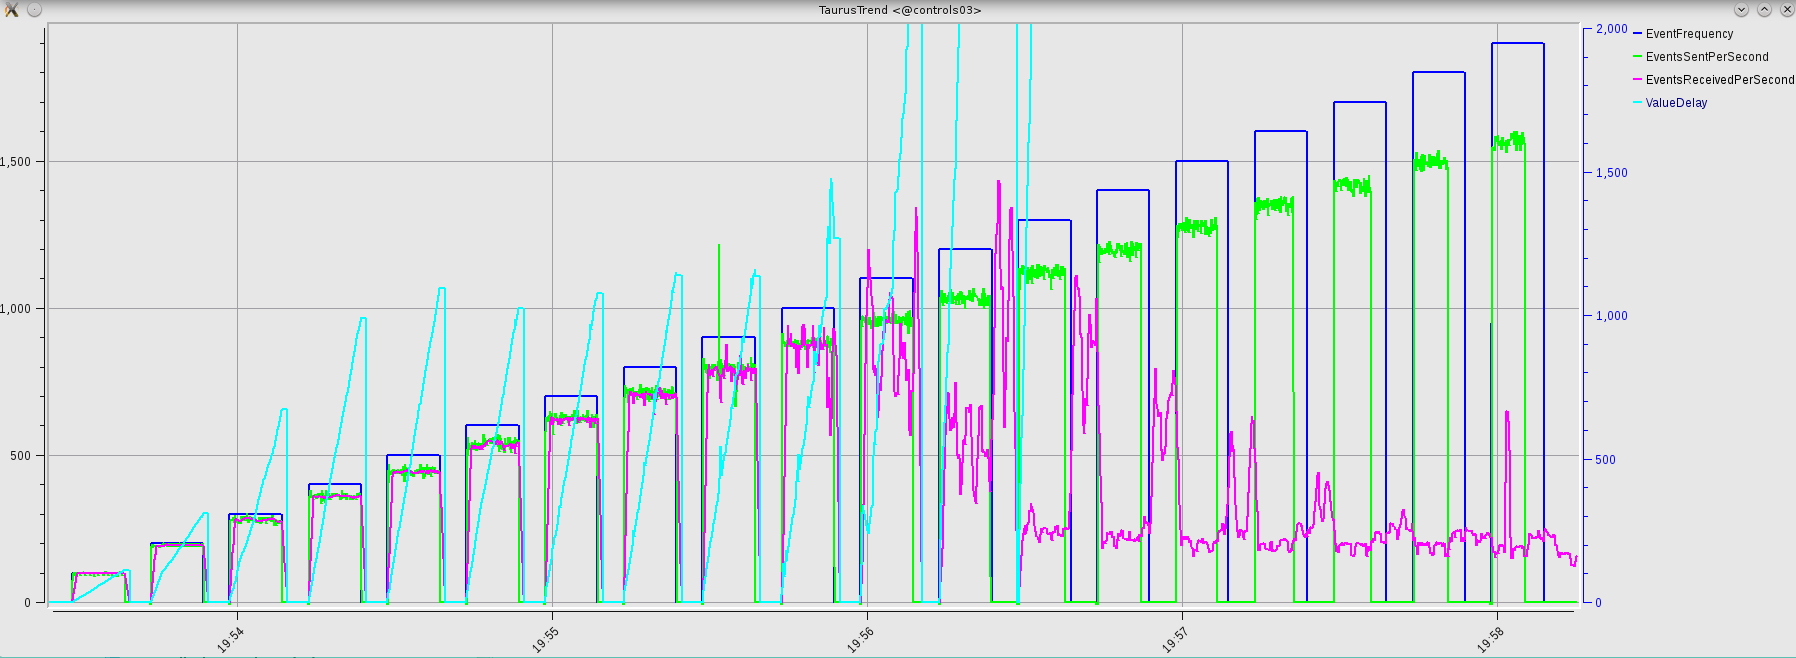
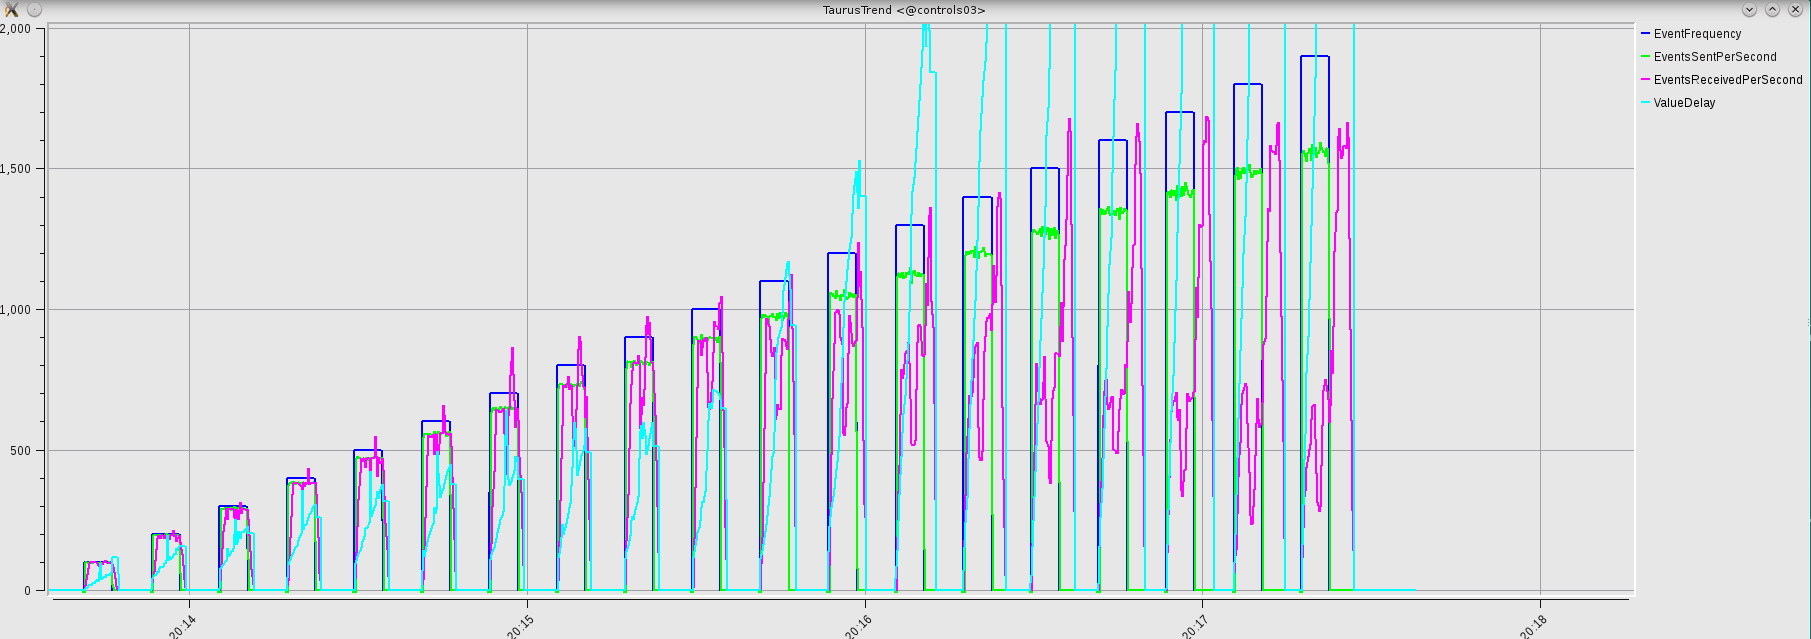
more tests

diff --git a/test.py b/test.py
@@ -33,7 +33,7 @@ attrs = [
   'test/events/2/eventsreceivedpersecond',
   'test/events/2/valuedelay',
   ]
-cmd('taurustrend -r 100 %s &'%' '.join(attrs))
+cmd('taurustrend -r 200 %s &'%' '.join(attrs))
 
 print('Start Testing in 10 seconds ...')
 time.sleep(10.)
@@ -45,9 +45,9 @@ t1.EventFrequency = 0
 for f in range(100,2000,100):
  t1.EventFrequency = f
  t1.start()
- time.sleep(10.)
+ time.sleep(5.)
  t1.stop()
  t1.EventFrequency = 0
- time.sleep(5.)
+ time.sleep(7.)
  
 print('Finished')
